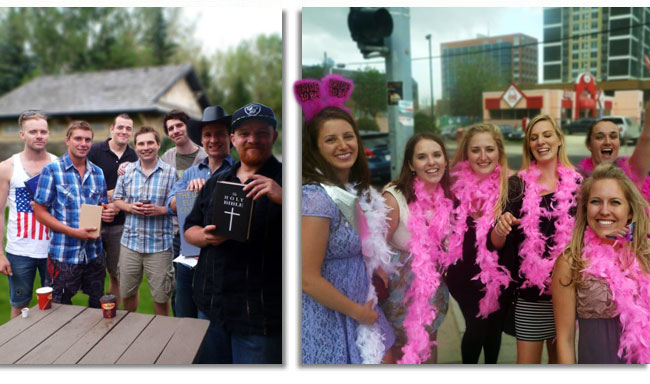
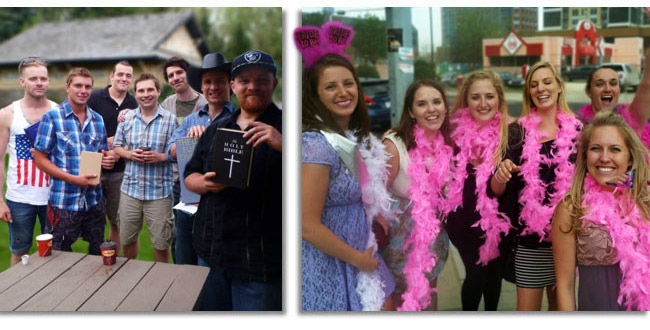
crop

diff --git a/2013/index.html b/2013/index.html
@@ -123,7 +123,7 @@ Canadian winters are long, so we stayed warm celebrating Jessica's (my sister) b
 <p style="font-family: Georgia, Garamond, serif; color: #222; font-size: 15px; margin: 0 0 15px 0; line-height: 2; text-align:justify;">
   Just when we started to feel like we were ready for the big day, the floods came. Calgary was underwater, including many peoples' homes, along with my work's building. But what concerned us most was the Calgary Zoo: our animal-themed island venue was destroyed. With only two weeks before the date, we were undoubtedly upset. This turned out to be the first real challenge Janessa and I had to face together in our (almost) marriage, and everyone was so incredibly supportive. God was faithful and we secured two new venues that weren't available last fall. In fact, these were venues we had considered before settling on the zoo, so the final decision was simple, and quite frankly, miraculous. With how the wedding day turned out, you'd had thought we originally planned it this way all along. We learned a lesson about control... it's never truly ours to own, but is safely in the hands of the Lord.</p>
 
-<img src="http://xmas.suder.mn/2013/party.jpg" width="650" height="384" />
+<img src="http://xmas.suder.mn/2013/party.jpg" width="650" height="330" />
 <!-- <img src="party.jpg" width="650" height="384" /> -->
 
 <p style="font-family: Georgia, Garamond, serif; color: #222; font-size: 15px; margin: 0 0 15px 0; line-height: 2; text-align:justify;"><strong><span class="first">
